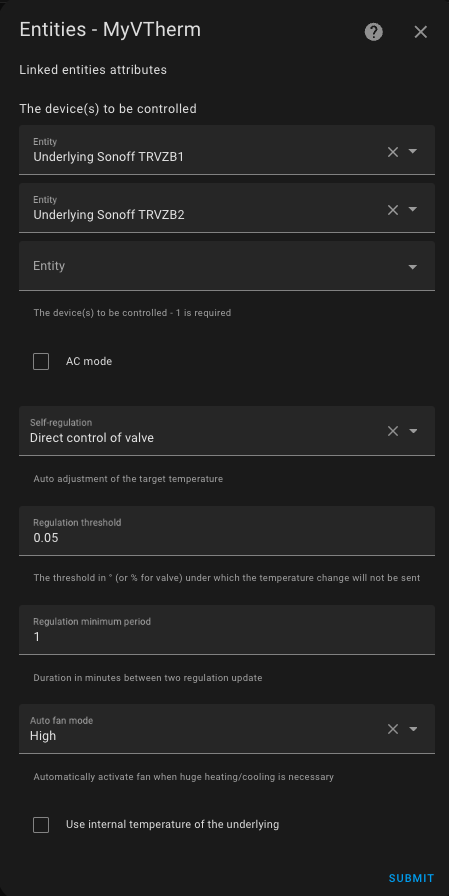
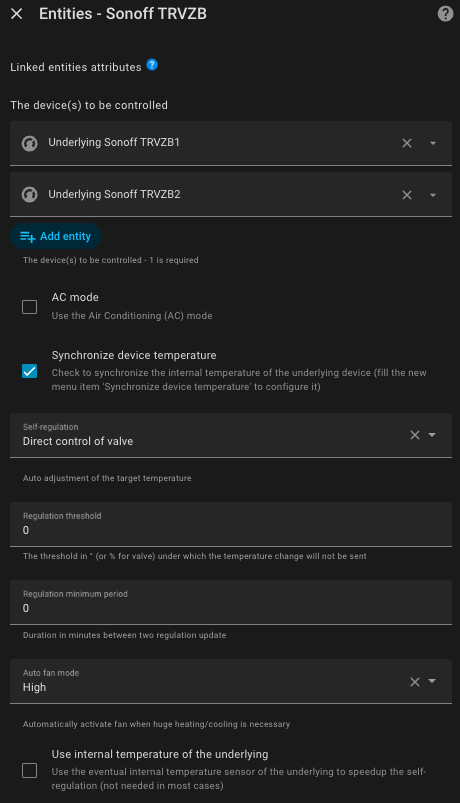
Update documentation with 8.4.x

diff --git a/documentation/pl/over-climate.md b/documentation/pl/over-climate.md
@@ -1,15 +1,16 @@
 # Typ termostatu: `Termostat na Klimacie`
 
-- [Typ termostatu `Termostat na Klimacie`](#over_climate-type-thermostat)
-  - [Wymagania wstępne](#prerequisites)
-  - [Konfiguracja](#configuration)
-    - [Encje podstawowe](#the-underlying-entities)
-    - [Tryb AC](#ac-mode)
-    - [Samoregulacja](#self-regulation)
-    - [Autowentylacja](#auto-fan-auto-ventilation)
-    - [Kompensacja temperatury wewnętrznej urządzeń bazowych](#compensating-for-the-internal-temperature-of-the-underlying-equipment)
-  - [Funkcje specyficzne](#specific-functions)
-  - [Śledzenie podstawowych zmian temperatury](#follow-underlying-temperature-changes)
+- [Typ termostatu: `Termostat na Klimacie`](#typ-termostatu-termostat-na-klimacie)
+  - [Wymagania wstępne](#wymagania-wstępne)
+  - [Konfiguracja](#konfiguracja)
+    - [Encje podstawowe](#encje-podstawowe)
+    - [Tryb AC](#tryb-ac)
+    - [Synchronization of the internal temperature of underlying entities](#synchronization-of-the-internal-temperature-of-underlying-entities)
+    - [Samoregulacja](#samoregulacja)
+    - [Autowentylacja](#autowentylacja)
+    - [Kompensacja temperatury wewnętrznej urządzeń bazowych](#kompensacja-temperatury-wewnętrznej-urządzeń-bazowych)
+  - [Funkcje specyficzne](#funkcje-specyficzne)
+  - [Śledzenie zmian temperatury bazowej](#śledzenie-zmian-temperatury-bazowej)
 
 ## Wymagania wstępne
 
@@ -42,6 +43,9 @@ Do listy "Sterowane urządzenia" dodaj encje `climate`, które mają być sterow
 
 Możesz wybrać `termostat na klimacie` do sterowania klimatyzacją (odwracalną lub nie), zaznaczając opcję "Tryb AC". Jeśli urządzenie na to pozwala, oba tryby: 'Grzanie" i Chłodzenie' będą dostępne.
 
+### Synchronization of the internal temperature of underlying entities
+This function allows for much better regulation as it synchronizes the internal thermometer of the underlying `climate` entities with the room temperature measured by _VTherm_. It is described [here](feature-sync_device_temp.md).
+
 ### Samoregulacja
 
 W trybie `termostat na klimacie` urządzenie korzysta z własnego algorytmu regulacji: załącza się/wyłącza i zatrzymuje automatycznie na podstawie wartości zadanej odebranej przez termostat VTherm za pośrednictwem encji `climate`. Wykorzystuje swój wewnętrzny termometr oraz odczytaną wartość zadaną.
@@ -65,7 +69,7 @@ Oczywiście Twoje urządzenie musi posiadać funkcję wentylacji i musi być ste
 
 ### Kompensacja temperatury wewnętrznej urządzeń bazowych
 
-_Ostrzeżenie_: 
+_Ostrzeżenie_:
 Tej opcji nie należy używać z regulacją bezpośredniego sterowania zaworem, jeśli została podana encja kalibracyjna.
 
 Czasami wewnętrzny termometr sterowanego urządzenia (TRV, klimatyzator itp.) jest na tyle niedokładny, że samoregulacja okazuje się niewystarczająca. Dzieje się tak, gdy termometr wewnętrzny znajduje się zbyt blisko źródła ciepła. Temperatura wewnętrzna rośnie znacznie szybciej niż temperatura w środku pomieszczeniu, co prowadzi do błędów regulacji.
@@ -112,7 +116,7 @@ W takim przypadku do urządzenia _VTherm_ dodano sensor "Śledzenie zmiany tempe
 
 Gdy ta opcja jest aktywna, wszystkie zmiany temperatury lub stanu dokonane bezpośrednio na sterowanym urządzeniu są odzwierciedlane w termostacie VTherm.
 
-**Uważaj** — jeśli korzystasz z tej funkcji, Twoje urządzenie jest sterowane na dwa sposoby: przez termostat _VTherm_ oraz bezpośrednio przez Ciebie. Polecenia mogą się wzajemnie wykluczać, co może prowadzić do niejednoznaczności aktualnego stanu urządzenia. 
+**Uważaj** — jeśli korzystasz z tej funkcji, Twoje urządzenie jest sterowane na dwa sposoby: przez termostat _VTherm_ oraz bezpośrednio przez Ciebie. Polecenia mogą się wzajemnie wykluczać, co może prowadzić do niejednoznaczności aktualnego stanu urządzenia.
 Termostat _VTherm_ posiada mechanizm opóźnienia, który zapobiega zapętleniom: użytkownik ustawia żądaną wartość, termostat _VTherm_ ją przechwytuje i odpowiednio zmienia wartość. To opóźnienie może powodować zignorowanie zmiany dokonanej bezpośrednio na urządzeniu, jeśli nastąpi w zbyt krótkim czasie.
 
 Niektóre urządzenia (np. Daikin) zmieniają stan samodzielnie. Jeśli zaznaczono tę opcję, może to spowodować wyłączenie termostatu _VTherm_, mimo że nie było to zamierzone. Dlatego lepiej jej nie używać — generuje to wiele niejasności i niepotrzebnych zapytań o wsparcie techniczne.

diff --git a/documentation/de/self-regulation.md b/documentation/de/self-regulation.md
@@ -1,14 +1,14 @@
 # Selbstregulierung
 
 - [Selbstregulierung](#selbstregulierung)
-    - [Konfiguration](#konfiguration)
-      - [Selbstregulierung bei direkter Ventilkontrolle](#selbstregulierung-bei-direkter-ventilkontrolle)
-        - [Wie werden die Parameter, die die Öffnungweite steuern, richtig eingestellt?](#Wie-werden-die-Parameter-die-die-Öffnungweite-steuern-richtig-eingestellt)
-        - [Fall 1: Es gibt eine 15-prozentige Totzone an dem Ventil (die ersten 15% lassen kein heißes Wasser durch)](#Fall-1-Es-gibt-eine-15-prozentige-Totzone-an-dem-Ventil-die-ersten-15-lassen-kein-heißes-Wasser-durch)
-        - [Fall 2: Das Ventil soll niemals vollständig schließen](#Fall-2-Das-Ventil-soll-niemals-vollständig-schließen)
-      - [Andere Selbsregulierung](#andere-selbsregulierung)
+  - [Konfiguration](#konfiguration)
+    - [Selbstregulierung bei direkter Ventilkontrolle](#selbstregulierung-bei-direkter-ventilkontrolle)
+      - [Wie werden die Parameter, die die Öffnungweite steuern, richtig eingestellt?](#wie-werden-die-parameter-die-die-öffnungweite-steuern-richtig-eingestellt)
+        - [Fall 1: Es gibt eine 15-prozentige Totzone an dem Ventil (die ersten 15% lassen kein heißes Wasser durch)](#fall-1-es-gibt-eine-15-prozentige-totzone-an-dem-ventil-die-ersten-15-lassen-kein-heißes-wasser-durch)
+        - [Fall 2: Das Ventil soll niemals vollständig schließen](#fall-2-das-ventil-soll-niemals-vollständig-schließen)
+    - [Andere Selbsregulierung](#andere-selbsregulierung)
       - [Selbstregulierung im Expertenmodus](#selbstregulierung-im-expertenmodus)
-      - [Zusammenfassung des Selbstregulierungsalgorithmus](#zusammenfassung-des-selbstregulierungsalgorithmus)
+  - [Zusammenfassung des Selbstregulierungsalgorithmus](#zusammenfassung-des-selbstregulierungsalgorithmus)
 
 Sie haben die Möglichkeit, die Selbstregulierungsfunktion nur für _VTherms_ des Typs `over_climate` zu aktivieren.
 
@@ -23,8 +23,7 @@ In der Regel gibt es zwei Fälle: Erstens
 Diese Art der Selbstregulierung, `Direct Valve Control` genannt, benötigt:
 1. Eine Einheit des Typs `climate`, die in den zugehörigen Geräten des _VTherm_ enthalten ist.
 2. Eine Entität des Typs `number` zur Steuerung der Ventilöffnungsrate des _TRV_.
-3. Eine optionale Entität des Typs `number` zur Kalibrierung der internen Temperatur des zugehörigen Geräts.
-4. Eine optionale Einheit des Typs `number` zur Steuerung des Ventilschließens.
+3. Eine optionale Einheit des Typs `number` zur Steuerung des Ventilschließens.
 
 Wenn die gewählte Selbstregulierung `Direct Valve Control` auf einem _VTherm_ `over_climate` ist, erscheint eine neue Konfigurationsseite mit dem Namen `Valve Regulation Configuration`:
 

diff --git a/documentation/fr/over-climate.md b/documentation/fr/over-climate.md
@@ -5,6 +5,7 @@
   - [Configuration](#configuration)
     - [Les sous-jacents](#les-sous-jacents)
     - [Le mode AC](#le-mode-ac)
+    - [La synchronisation de la température interne des sous-jacents](#la-synchronisation-de-la-température-interne-des-sous-jacents)
     - [L'auto-régulation](#lauto-régulation)
     - [L'auto-ventilation (auto-fan)](#lauto-ventilation-auto-fan)
     - [Compenser la température interne du sous-jacent](#compenser-la-température-interne-du-sous-jacent)
@@ -38,6 +39,9 @@ Dans la "liste des équipements à contrôler" vous mettez les entités `climate
 
 Il est possible de choisir un thermostat `over_climate` qui commande une climatisation (réversible ou non) en cochant la case "AC Mode". Si l'équipement le permet, les 2 modes 'Chauffage' et 'Refroidissement' seront alors disponibles.
 
+### La synchronisation de la température interne des sous-jacents
+Cette fonction permet une bien meilleure régulation puisqu'elle synchronise le thermomètre interne des `climate` sous-jacents avec la température de la pièce mesurée par _VTherm_. Elle est décrite [ici](feature-sync_device_temp.md).
+
 ### L'auto-régulation
 
 En mode `over_climate`, le device utilise son propre algorithme de régulation : il s'allume / s'éteint et se met en pause tout seul en fonction de la consigne transmise par le VTherm à travers son entité `climate`. Il utilise pour ça son thermomètre interne et la consigne reçue.
@@ -63,7 +67,7 @@ Une fois l'écart de température redevenu faible, la ventilation se mettra dans
 
 ### Compenser la température interne du sous-jacent
 
-Attention : cette option ne doit pas être utilisée avec une régulation par contrôle direct de la vanne si une entité de calibrage a été fournie.
+Attention : cette option ne doit pas être utilisée avec une régulation par contrôle direct de la vanne.
 
 Quelque fois, il arrive que le thermomètre interne du sous-jacent (TRV, climatisation, ...) soit tellement faux que l'auto-régulation ne suffise pas à réguler.
 Cela arrive lorsque le thermomètre interne est trop près de la source de chaleur. La température interne monte alors beaucoup plus vite que la température de la pièce, ce qui génère des défauts dans la régulation.

diff --git a/documentation/de/over-climate.md b/documentation/de/over-climate.md
@@ -3,10 +3,11 @@
 - [`over_climate` Thermostattyp](#over_climate-thermostattyp)
   - [Voraussetzungen](#voraussetzungen)
   - [Konfiguration](#konfiguration)
-    - [Die zugeordneten Geräte](#the-underlying-entities)
-    - [Klimaanlagenmodus/AC Modus](#klimaanlagenmodus-ac-modus)
+    - [Die zugeordneten Geräte](#die-zugeordneten-geräte)
+    - [Klimaanlagenmodus/AC Modus](#klimaanlagenmodusac-modus)
+    - [Synchronization of the internal temperature of underlying entities](#synchronization-of-the-internal-temperature-of-underlying-entities)
     - [Selbstregulierung](#selbstregulierung)
-    - [Auto-Fan (Automatische Belüftung)](#auto-fan-automatische-belüftung))
+    - [Auto-Fan (Automatische Belüftung)](#auto-fan-automatische-belüftung)
     - [Kompensation der Innentemperatur des zugehörigen Geräts](#kompensation-der-innentemperatur-des-zugehörigen-geräts)
   - [Besondere Funktionen](#besondere-funktionen)
   - [Verfolgung grundlegender Temperaturänderungen](#verfolgung-grundlegender-temperaturänderungen)
@@ -35,6 +36,9 @@ In der Liste „Zu steuernde Geräte“ sollten Sie die `climate`-Entities hinzu
 ### Klimaanlagenmodus/AC Modus
 
 Sie können einen `over_climate`-Thermostat zur Steuerung einer Klimaanlage (reversibel oder nicht) wählen, indem Sie das Kästchen "AC Mode" markieren. Wenn das Gerät dies zulässt, sind die beiden Modi 'Heizen' und 'Kühlen' verfügbar.
+
+### Synchronization of the internal temperature of underlying entities
+This function allows for much better regulation as it synchronizes the internal thermometer of the underlying `climate` entities with the room temperature measured by _VTherm_. It is described [here](feature-sync_device_temp.md).
 
 ### Selbstregulierung
 

diff --git a/documentation/en/over-climate.md b/documentation/en/over-climate.md
@@ -5,6 +5,7 @@
   - [Configuration](#configuration)
     - [The Underlying Entities](#the-underlying-entities)
     - [AC Mode](#ac-mode)
+    - [Synchronization of the internal temperature of underlying entities](#synchronization-of-the-internal-temperature-of-underlying-entities)
     - [Self-Regulation](#self-regulation)
     - [Auto-Fan (Auto Ventilation)](#auto-fan-auto-ventilation)
     - [Compensating for the Internal Temperature of the Underlying Equipment](#compensating-for-the-internal-temperature-of-the-underlying-equipment)
@@ -36,6 +37,9 @@ In the "Equipment to Control" list, you should add the `climate` entities that w
 ### AC Mode
 
 You can choose an `over_climate` thermostat to control an air conditioner (reversible or not) by checking the "AC Mode" box. If the equipment allows it, both 'Heating' and 'Cooling' modes will be available.
+
+### Synchronization of the internal temperature of underlying entities
+This function allows for much better regulation as it synchronizes the internal thermometer of the underlying `climate` entities with the room temperature measured by _VTherm_. It is described [here](feature-sync_device_temp.md).
 
 ### Self-Regulation
 

diff --git a/documentation/cs/over-climate.md b/documentation/cs/over-climate.md
@@ -5,6 +5,7 @@
   - [Konfigurace](#konfigurace)
     - [Podkladové entity](#podkladové-entity)
     - [AC režim](#ac-režim)
+    - [Synchronization of the internal temperature of underlying entities](#synchronization-of-the-internal-temperature-of-underlying-entities)
     - [Samo-regulace](#samo-regulace)
     - [Auto-ventilátor (Auto ventilace)](#auto-ventilátor-auto-ventilace)
     - [Kompenzace vnitřní teploty podkladového vybavení](#kompenzace-vnitřní-teploty-podkladového-vybavení)
@@ -36,6 +37,9 @@ V seznamu "Zařízení k ovládání" byste měli přidat entity `climate`, kter
 ### AC režim
 
 Můžete vybrat termostat `over_climate` pro ovládání klimatizace (reverzibilní nebo ne) zaškrtnutím políčka "AC režim". Pokud to zařízení umožňuje, budou dostupné režimy 'Vytápění' i 'Chlazení'.
+
+### Synchronization of the internal temperature of underlying entities
+This function allows for much better regulation as it synchronizes the internal thermometer of the underlying `climate` entities with the room temperature measured by _VTherm_. It is described [here](feature-sync_device_temp.md).
 
 ### Samo-regulace
 

diff --git a/documentation/fr/self-regulation.md b/documentation/fr/self-regulation.md
@@ -24,7 +24,6 @@ Il y a globalement 2 cas :
 Ce type d'auto-régulation nommé `Controle direct de la vanne` nécessite :
 1. une entité de type `climate` qui est mis dans les sous-jacents du _VTherm_,
 2. une entité de type `number` qui permet de contrôle du taux d'ouverture de la vanne du _TRV_,
-3. une entité facultative de type `number` permettant de calibrer la température interne du sous-jacent,
 3. une entité facultative de type `number` permettant le contrôle de la fermeture de la vanne
 
 Lorsque l'auto-régulation choisie est `Contrôle direct de la vanne` sur un _VTherm_ `over_climate` alors une nouvelle page de configuration nommée `Configuration de la régulation par vanne` apparait :

diff --git a/documentation/pl/self-regulation.md b/documentation/pl/self-regulation.md
@@ -21,8 +21,7 @@ Istnieją dwa typowe przypadki zastosowań tej funkcji:
 Ten typ samoregulacji, nazwany 'Bezpośrednim sterowaniem zaworami', wymaga:
 1. Encji typu `climate` pochodzącej z urządzenia bazowego _VTherm_.
 2. Encji typu `number` do sterowania szybkością otwierania zaworu _TRV_.
-3. Opcjonalnej encji typu `number` do kalibracji temperatury wewnętrznej urządzenia bazowego.
-4. Opcjonalnej encji typu `number` do sterowania zamykaniem zaworu.
+3. Opcjonalnej encji typu `number` do sterowania zamykaniem zaworu.
 
 Gdy wybraną samoregulacją jest 'bezpośrednie sterowanie zaworem' `termostatu na klimacie`, pojawia się nowe okno konfiguracji o nazwie 'Konfiguracja regulacji zaworów':
 

diff --git a/documentation/cs/self-regulation.md b/documentation/cs/self-regulation.md
@@ -22,8 +22,7 @@ Obecně existují dva případy:
 Tento typ samo-regulace, nazývaný `Přímé ovládání ventilu`, vyžaduje:
 1. Entitu typu `climate`, která je zahrnuta v podkladových zařízeních _VTherm_.
 2. Entitu typu `number` pro ovládání míry otevření ventilu _TRV_.
-3. Volitelnou entitu typu `number` pro kalibraci vnitřní teploty podkladového zařízení.
-4. Volitelnou entitu typu `number` pro ovládání uzavření ventilu.
+3. Volitelnou entitu typu `number` pro ovládání uzavření ventilu.
 
 Když je zvolena samo-regulace `Přímé ovládání ventilu` na _VTherm_ `over_climate`, objeví se nová konfigurační stránka s názvem `Konfigurace regulace ventilu`:
 

diff --git a/documentation/en/self-regulation.md b/documentation/en/self-regulation.md
@@ -23,8 +23,7 @@ There are generally two cases:
 This type of self-regulation called `Direct valve control` requires:
 1. a `climate` entity that is set in the underlying entities of the _VTherm_,
 2. a `number` entity that allows controlling the valve opening rate of the _TRV_,
-3. an optional `number` entity allowing to calibrate the internal temperature of the underlying entity,
-4. an optional `number` entity allowing to control the valve closing
+3. an optional `number` entity allowing to control the valve closing
 
 When the chosen self-regulation is `Direct valve control` on an `over_climate` _VTherm_, a new configuration page called `Valve regulation configuration` appears:
 
